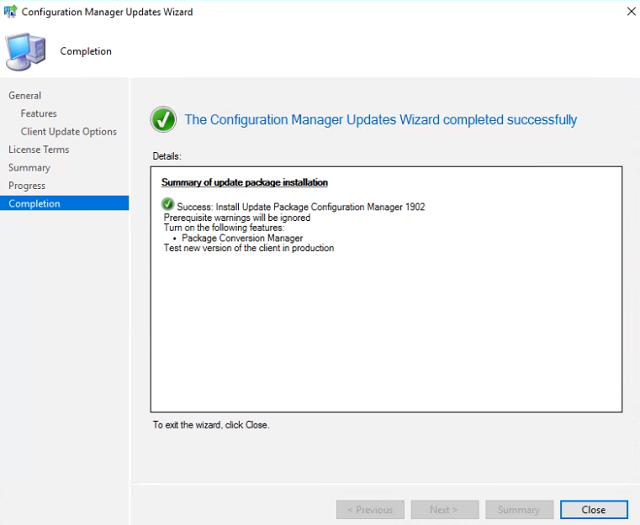
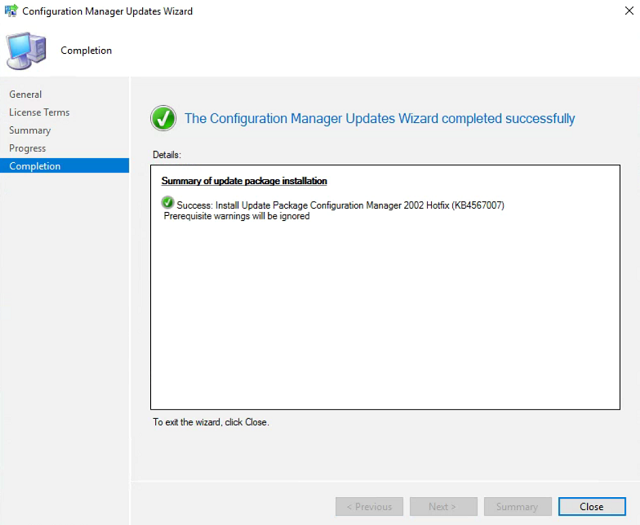
Updated for MEMCM 2002 and addded troubleshooting

diff --git a/_posts/2018-05-30-set-up-the-sccm-lab.md b/_posts/2018-05-30-set-up-the-sccm-lab.md
@@ -1,14 +1,14 @@
 ---
 layout: post
 published: true
-title: In the SCCM Lab
+title: In the MEMCM Lab
 date: '2018-05-30'
 subtitle: 'With a pen and a pad, trying to get this deployment off'
 ---
-######  Updated: 5/21/2019
-My first lab was [Johan's hydration kit](https://deploymentresearch.com/Research/Post/580/Hydration-Kit-For-Windows-Server-2016-and-ConfigMgr-Current-Technical-Preview-Branch).  It's incredibly powerful, customizable, and educational.  Unfortunately it takes a little more time and know-how than a novice like myself was initially prepared for.
+######  Updated: 7/8/2020
+My first lab was [Johan's hydration kit](https://deploymentresearch.com/hydration-kit-for-windows-server-2019-sql-server-2017-and-configmgr-current-branch/).  It's incredibly powerful, customizable, and educational.  Unfortunately it takes a little more time and know-how than a novice like myself was initially prepared for.
 
-However, at MMS [Steve Jesok](https://twitter.com/mrjesok) pointed out that Microsoft provides an **all-in-one** solution: the [Windows and Office Deployment Lab Kit](https://www.microsoft.com/en-us/evalcenter/evaluate-lab-kit).  Within minutes, we can have a fully functional domain controller and SCCM server.
+However, at MMS [Steve Jesok](https://twitter.com/sejesok) pointed out that Microsoft provides an **all-in-one** solution: the [Windows and Office Deployment Lab Kit](https://www.microsoft.com/en-us/evalcenter/evaluate-lab-kit).  Within minutes, we can have a fully functional domain controller and MEMCM server.
 
 
 ### The Requirements
@@ -32,17 +32,20 @@ However, at MMS [Steve Jesok](https://twitter.com/mrjesok) pointed out that Micr
     ![run_setup_exe.PNG](/img/200/run_setup_exe.PNG)
 4. **Setup Wizard** - Click _Next_ all the way through to the end.  It will import all the VMs into Hyper-V.
 
+    ![setup_wizard.PNG](/img/200/setup_wizard.PNG)
+
 5. **Configure VM Settings** - You should see HYD-DC1 and HYD-GW1 already running.  Shut them down.  We won't be using HYD-GW1 again.
 
 6. **Domain Controller** - Right click HYD-DC1 and select _Settings_. Set _Maximum Memory_ to **2048**MB and leave _Enable Dynamic Memory_ checked.  Set CPU to **one** virtual processor.
 
-7. **SCCM Server** - Right click HYD-CM1 and select _Settings_. Leave memory settings at default. Set CPU to **two** virtual processors.
+    ![hyd-dc1_settings.PNG](/img/200/hyd-dc1_settings.PNG)
+7. **MEMCM Server** - Right click HYD-CM1 and select _Settings_. Leave memory settings at default. Set CPU to **two** virtual processors.
 
     ![hyd-cm1_settings.PNG](/img/200/hyd-cm1_settings.PNG)
 
 ### NAT Networking
 ###### Note: We will NOT be using the external virtual switch called _Lab_ from _Step 3_ of the _Requirements_ section.  It was only necessary so that Setup.exe from the _Setup_ section would run.
-1. **NAT Networking** - We'll use [Ami Casto's NAT network script](https://deploymentresearch.com/Research/Post/558/Setting-Up-New-Networking-Features-in-Server-2016 "Setting Up New Networking Features in Server 2016") instead of the Internet Gateway (HYD-GW1) to make the lab simpler.  You can learn more about NAT networking [here](https://docs.microsoft.com/en-us/virtualization/hyper-v-on-windows/user-guide/setup-nat-network "Set up a NAT network").
+1. **NAT Networking** - We'll use [Ami Arwidmark's NAT network script](https://deploymentresearch.com/Research/Post/558/Setting-Up-New-Networking-Features-in-Server-2016 "Setting Up New Networking Features in Server 2016") instead of the Internet Gateway (HYD-GW1) to make the lab simpler.  You can learn more about NAT networking [here](https://docs.microsoft.com/en-us/virtualization/hyper-v-on-windows/user-guide/setup-nat-network "Set up a NAT network").
 
 2.  **Prepare the Virtual Switch** - The Deployment Lab Kit creates it's own private network switch, so we need to make it an _Internal_ one to work with Ami's script.  In Hyper-V click _Virtual Switch Manager_.  Click on _HYD-CorpNet_.  Select _Internal network_ and click _OK_.
 
@@ -59,15 +62,17 @@ However, at MMS [Steve Jesok](https://twitter.com/mrjesok) pointed out that Micr
 
 2. Power on HYD-CM1 and log in.  The passwords for the local administrator accounts and for CORP\LabAdmin is _P@ssw0rd_
 
-3. Confirm the SCCM server has internet access by launching command prompt and pinging 8.8.8.8.
+3. Confirm the MEMCM server has internet access by launching command prompt and pinging 8.8.8.8.
 
-4. Give HYD-CM1 another moment for services to start up.  Launch the _System Center Configuration Manager Console_ and confirm that it loads successfully.
+4. Give HYD-CM1 another moment for services to start up.  Launch the _Microsoft Endpoint Manager Configuration Manager Console_ and confirm that it loads successfully.
 
-    ![sccm_console.png](/img/200/sccm_console.png)
+    ![memcm_console.png](/img/200/memcm_console.png)
+###### Refer to the troubleshooting section if anything isn't working at this point
+[**Troubleshooting**](https://doug.seiler.us/2018-05-30-set-up-the-sccm-lab/#Troubleshooting)
 
 ### The Finishing Touch
-###### Now that we've got a functioning domain, SCCM server, and internet access, it's time to update.
-1. In the SCCM console, navigate to the _Administration_ node and select _Updates and Servicing_. Click on _Check for updates_.
+###### Now that we've got a functioning domain, MEMCM server, and internet access, it's time to update.
+1. In the MEMCM console, navigate to the _Administration_ node and select _Updates and Servicing_. Click on _Check for updates_.
 
     ![check_for_updates.png](/img/200/check_for_updates.png)
 2. If the latest version hasn't already started downloading, select it (in this case 1902), right click and choose _Download_.
@@ -76,7 +81,7 @@ However, at MMS [Steve Jesok](https://twitter.com/mrjesok) pointed out that Micr
 
 4. On the _Updates and Servicing Status_ page for our chosen update, right click update package and choose _Show Status_ again.
 
-5. From here, we can follow the download AND installation statuses of the latest SCCM upgrade.
+5. From here, we can follow the download AND installation statuses of the latest MEMCM upgrade.
 
     ![updates_and_servicing.PNG](/img/200/updates_and_servicing.PNG)
 6. Once the download is complete, go back to the _Administration_ node and click on _Updates and Servicing_ again.  The update we downloaded should now say _Ready to install_.
@@ -89,9 +94,24 @@ However, at MMS [Steve Jesok](https://twitter.com/mrjesok) pointed out that Micr
 8. Repeat steps 3 and 4 and watch the update installation progress.  Refresh until the Update Wizard is complete and click _Close_.
 
 	![install_status.PNG](/img/200/install_status.PNG)
-9. Close the SCCM console and relaunch it.  We will be prompted to upgrade the console to the new version. Click _OK_, and if prompted for elevation click _OK_ again.
+9. Close the MEMCM console and relaunch it.  We will be prompted to upgrade the console to the new version. Click _OK_, and if prompted for elevation click _OK_ again.
 
 	![update_console.PNG](/img/200/update_console.PNG)
 
-#### Congratulations!  We now have a functional SCCM environment we can configure and customize.
+#### Congratulations!  We now have a functional MEMCM environment we can configure and customize.
 **Next up** - [Operating System Deployment over PXE](https://doug.seiler.us/2018-06-05-you-down-with-osd/)
+
+### Troubleshooting
+###### If there are any obstacles during set up, we can try some of these troubleshooting tips
+
+1. If you cannot ping 8.8.8.8, we don't have access to the internet.  From CM1, try pinging DC1 at 10.0.0.6.  If that works, try pinging the NAT gateway at 10.0.0.254.  If that doesn't work, try temporarily disabling the firewall as that might be blocking access.  You may need to remove and redo the NAT networking as well, so run the following command in an elevated Powershell terminal:
+```powershell
+    Remove-NetIPAddress -IPAddress 10.0.0.254
+    Remove-NetNat
+
+    New-NetIPAddress –IPAddress 10.0.0.254 -PrefixLength 24 -InterfaceAlias "vEthernet (HYD-CorpNet)" 
+    New-NetNat –Name HYD-CorpNetNATNetwork –InternalIPInterfaceAddressPrefix 10.0.0.0/24
+```
+2. If you can ping 10.0.0.254 but STILL can't ping 8.8.8.8, make sure HYD-GW1 is powered off.  If it is, the issue is on the host system.  From the host system, ping CM1 at 10.0.0.7 to confirm NAT is working.  If NAT is working, from CM1 ping the host IP of the physical adapter.
+
+3. The lab network is 10.0.0.0/24.  If our home network is also on 10.0.0.0/24 we'll have trouble getting out.  We will either need to ditch the NAT and rely on GW1, or re-IP DC1 and CM1 and our NAT configuration on a different network.  Just keep in mind in subsequent blog posts we'll need to adjust networking respectively.
